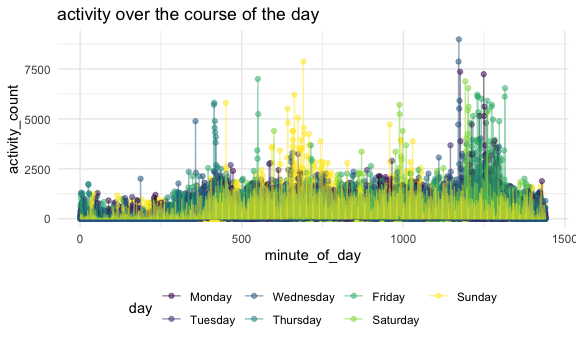
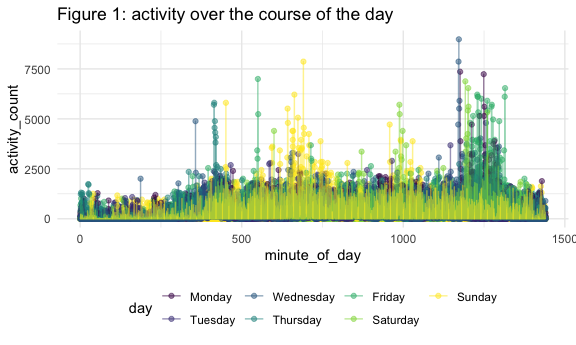
Problem 3 -- plot23

Changed region(s): [[0.0938, 0.0, 0.6875, 0.087]]

diff --git a/p8105_hw3_wf2270.md b/p8105_hw3_wf2270.md
@@ -149,8 +149,7 @@ which minute of the day is the record about, a “activity\_court”
 recoding the activity counts for the minute, and a “weekend” indicating
 whether it’s a weekend or a weekday.
 
-aggregate across minutes to create a total activity variable for each
-day, and create a table showing these totals. Are any trends apparent?
+Let’s see a table showing daily total activity.
 
 ``` r
 accel_data %>%
@@ -204,8 +203,8 @@ Looks like except for 3 days, all the other days have same order of
 magnitude of total activity count with fluctuation. We may need further
 analysis and visulization to find systematic trend.
 
-Describe in words any patterns or conclusions you can make based on this
-graph.
+Let’s see a plot on activity over the course of the day, while each line
+represents a day and each color represent a specific day in a week.
 
 ``` r
 accel_data %>%
@@ -213,7 +212,7 @@ accel_data %>%
   ggplot(aes(x = minute_of_day, y = activity_count, color = day)) + 
     geom_point(alpha = .5) + geom_line(alpha = .5) + 
     theme(legend.position = "bottom") +
-  labs(title = "activity over the course of the day")
+  labs(title = "Figure 1: activity over the course of the day")
 ```
 
 <img src="p8105_hw3_wf2270_files/figure-gfm/P2Q3-1.png" width="90%" />
@@ -226,3 +225,128 @@ peak of activity on weekend are between 600-750 minutes, around 1000
 minutes and some 1200 minutes, while the major peak for weekdays are
 around 1250 minutes, some around 500 minutes, this may indicate that the
 person do exercises in different time of a day.
+
+# Problem 3
+
+``` r
+data("ny_noaa")
+```
+
+These data were accessed from the NOAA National Climatic Data Center
+containing weather information for all New York state weather stations
+from 1981 to 2010. It contains 2595176 observations and 7 variables,
+while “id” represents weather station ID, “date” represents date of
+observation, “prcp” represents precipitation (tenths of mm), “snow”
+represents snowfall (mm),“snwd” represents snow depth (mm), “tmax”
+maximum temperature (tenths of degrees C), “tmin” minimum temperature
+(tenths of degrees C). Each weather station may collect only a subset of
+these variables, and therefore the resulting dataset contains extensive
+missing data. Of all observations, 52.9% contain at least one missing
+value. In addition, 2.8% have missing values for all five key variables,
+and for this proportion, we nearly get nothing from this data.
+
+``` r
+noaa_data <- ny_noaa %>% 
+  janitor::clean_names() %>% 
+  separate(date, c("year", "month", "day"), sep = "-") %>% 
+  mutate(tmax = as.double(tmax) / 10, 
+         tmin = as.double(tmin) / 10, 
+         prcp = prcp / 10,
+         month = month.name[as.integer(month)], 
+         year = as.integer(year))
+
+quantile(pull(noaa_data, snow), na.rm = T)
+```
+
+    ##    0%   25%   50%   75%  100% 
+    ##   -13     0     0     0 10160
+
+``` r
+sum(pull(noaa_data, snow)<0, na.rm = T)
+```
+
+    ## [1] 1
+
+From the quantile, we can see that at least over 50% of snowfall data
+are 0, so 0 is the most commonly observed values. This is reasonable as
+we know that NY usually have snow in winter season while no snow in
+other 3 seasons. However, there’s a negative snowfall, which might be a
+mistake.
+
+Let’s see a two-panel plot showing the average max temperature in
+January and in July in each station across years. Each point represents
+average tmax over the month in the year in specific station.
+
+``` r
+noaa_data %>% 
+  filter(month %in% c("January", "July")) %>% 
+  group_by(year, month, id) %>% 
+  summarize(avg_temp = mean(tmax, na.rm = TRUE)) %>% 
+  drop_na() %>%
+  ggplot(aes(x = year, y = avg_temp)) + 
+  geom_point(alpha = 0.3) + 
+  geom_smooth(se = F) +
+  facet_grid(~ month) + 
+  labs(title = "Figure 2: Average maximum temperature (°C) in January and July, 1981-2010", 
+       x = "Year", 
+       y = "Average Max Daily Temperature (°C)") 
+```
+
+<img src="p8105_hw3_wf2270_files/figure-gfm/P3_plot1-1.png" width="90%" />
+
+There’s an continuous increase for the average max temperature in
+January from 1980-1990, and then it tends to flutuate around zero
+degrees while the temperature for July varies around 27 degrees. In
+addition, the average maximum temperature for January appears to have
+more variation compared to that of July. Looks like there is one station
+has much lower average tmax(10 degress than the min of all the other
+station, and nearly 15 degrees from the center) in July 1988, we need to
+further check the data and other information to determine whether it’s
+an outlier.
+
+Let’s see a two-panel plot showing (i) tmax vs tmin for the full
+dataset. For this plot, since there are too many data points, we use a
+heatmap. (ii) the distribution of snowfall values greater than 0 and
+less than 100 separately by year.
+
+``` r
+library(plotly) #for hexbin()
+library(patchwork) #for wrap_elements()
+temp_hex <- noaa_data %>%
+  ggplot(aes(x = tmin, y = tmax)) +
+    geom_hex() + 
+    theme(legend.position = "bottom",
+          legend.key.height = unit(0.1, "in"),
+          legend.key.width = unit(0.5, "in")) +
+    labs(title = "Heatmap of daily tmax vs. tmin",
+         x = "tmin (°C)", 
+         y = "tmax (°C)") 
+
+snow_density <- noaa_data %>%
+  filter(snow > 0 & snow < 100) %>%
+  mutate(year = as.factor(year)) %>%
+  ggplot(aes(x = snow, color = year)) +
+  geom_density(alpha = 0.01) +
+  labs(title = "Density plot of snowfall(mm)",
+         x = "Snowfall (mm)", 
+         y = "Density") + 
+  theme(legend.key.size = unit(0.07, "in"))
+
+final_plot <- temp_hex + snow_density 
+
+wrap_elements(final_plot) + ggtitle("Figure 3: Heatmap and density plots")
+```
+
+    ## Warning: Removed 1136276 rows containing non-finite values (stat_binhex).
+
+<img src="p8105_hw3_wf2270_files/figure-gfm/P3Q3-1.png" width="90%" />
+
+From the heatmap, the lighter the color means the higher density, it’s
+obvious that there is positive linear relationship between tmin and
+tmax.
+
+From the density plot, it can be seen that there are local maximum in
+density around 20, 25, 50, and 75 mm. One can also notice that the
+heights of later 25, 50, 75 peaks has decreased over each the years –
+the lighter the color, the lower the peak. This might indicate the
+result of climate change resulting in less snowfall.
